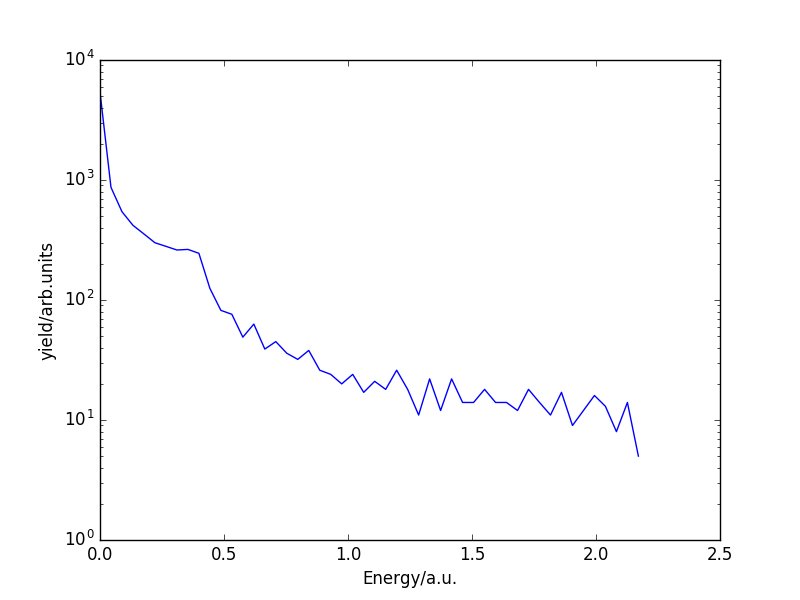
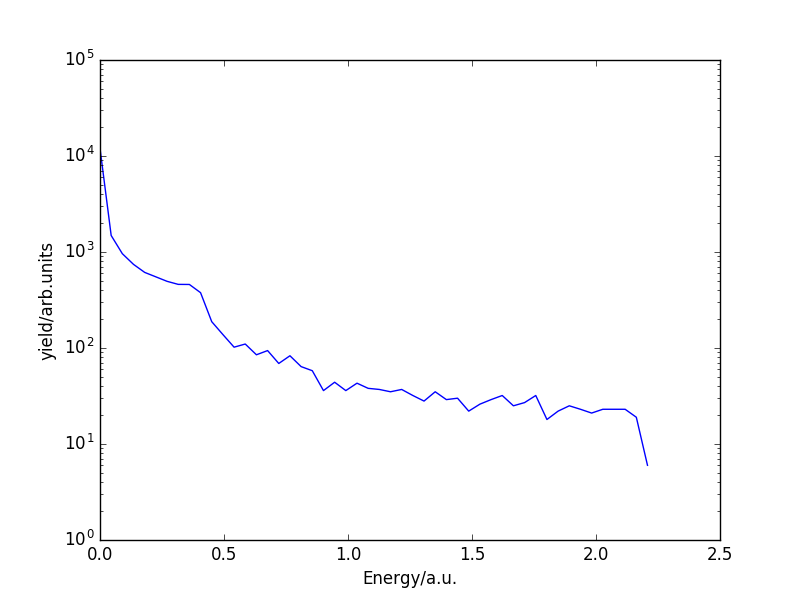
Updates on verlet algorithm
test if offset can give the right results

diff --git a/w2w_verlet.py b/w2w_verlet.py
@@ -8,6 +8,7 @@ from joblib import Parallel, delayed
 import multiprocessing
 from numba import jit
 
+np.random.seed(seed=10051990)
 
 class _Pulse(object):
     """Class for generation of pulses"""
@@ -38,7 +39,6 @@ class _Pulse(object):
                     wavelength: wavelength of pulse in nm
                     intensity: intensity in W/cm^2
                     CEP:    CEP in pi
-                    b: temporal offset in fs
             output: array of electric field shape of the pulse
                   """
         # calculate the proper output parameters from the input parameters
@@ -156,7 +156,7 @@ class _Ionization(object):
         pbins = np.linspace(-pmax,pmax,npbins+1)
         return pbins
 
-    def final_distribution_intensity_atoms(Imax,nI,pbins,npbins, phi,timesteps, laser_parameters):
+    def final_distribution_intensity_atoms(Imax,nI,pbins,npbins, phi,timesteps, laser_parameters, ADK_params):
         '''Calculate the momentum distribution
         input: Imax
                nI
@@ -165,6 +165,7 @@ class _Ionization(object):
                phi
                timesteps
                laser_parameters
+               ADK_params
         output: dist_i_3: momentum distribution [50]'''
         # initializing of all the arrays
         dist_i_3 = np.zeros([nI,npbins]) # momentum distributions
@@ -177,20 +178,21 @@ class _Ionization(object):
 
 
         # loop over different positions perpendicular to focus
-        x = np.linspace(0.001,150,nI) # 10 steps between 0 and 50um in the focus
+        x = np.linspace(0.001,50,nI) # 10 steps between 0 and 50um in the focus
         for i in range(nI):
             # print('{0} of {1} and phi={2:.3f} of max 2 at ratio {3}'.format(i+1,nI,phi, ratio))
             # create the Intensity of the laser at that position
             Ir_x = _Avg.gaussian(x[i],laser_parameters['Imax_red'],laser_parameters['FWHM_red(um)']) # offset by 15um
-            Iuv_x = _Avg.gaussian(x[i]+0,laser_parameters['Imax_uv'],laser_parameters['FWHM_uv(um)'])
+            Ib_x = _Avg.gaussian(x[i],laser_parameters['Imax_blue'],laser_parameters['FWHM_blue(um)'])
             # create the pulse
-            Er = _Pulse.pulse_au(t, laser_parameters['t_red(fs)'], 800, Ir_x, 0, -50, 0)
-            Euv = _Pulse.pulse_au(t, laser_parameters['t_uv(fs)'], 266, Iuv_x, phi, 50, 0)
-            Ecombined_i = Er + Euv
+            Er = _Pulse.pulse_au(t, laser_parameters['t_red(fs)'], 800, Ir_x, 0, 0, 0)
+            Eb = _Pulse.pulse_au(t, laser_parameters['t_blue(fs)'], 400, Ib_x, phi, 0, 0)
+            Ecombined_i = Er + Eb
             intensities.append(np.max(.5*Ecombined_i**2)*3.51E16) # in W/cm^2
 
             # calculate the ionization rate
-            rate = _Ionization.ADK(2.19, 0.579, 1., Ecombined_i, 1, 9.)*dt # constants for the ionization of Argon
+            rate = _Ionization.ADK(ADK_params['Cl'], ADK_params['I_p'], ADK_params['Z_c'], Ecombined_i,
+                                    ADK_params['l'], ADK_params['alpha'])*dt # constants for the ionization of Argon
             R[i,:] = rate
 
             # calculate the number of atoms remaining based on the rate
@@ -236,17 +238,15 @@ class _Avg(object):
         for i in range(nI):
             x_i = np.argmax(gauss >= I_disc[i]) # get the x value where the intensity is at I_i
             x_I[i] = x[x_i]
-        if nI > 1:
-            x_I[-1] = 0 # Volume of max intensity is zero
+        x_I[-1] = 0 # Volume of max intensity is zero
         # calculate the gradient as a weight for the focus averaging
-            dVdI = np.gradient(x_I**2)
+        dVdI = np.gradient(x_I**2)
 
-            S_avg = 0.
-            for i in range(nI):
-                S_i = np.abs(dVdI[i])*distribution[-i-1]*dI
-                S_avg += S_i
-        else:
-            S_avg = distribution
+        S_avg = 0.
+        for i in range(nI):
+            S_i = np.abs(dVdI[i])*distribution[-i-1]*dI
+            S_avg += S_i
+
         return S_avg
 
 class _Asymmetry(object):
@@ -302,7 +302,7 @@ class _Run(object):
         phases = np.linspace(0,parameters['phimax'],parameters['phisteps'],endpoint=False)
         return ADK_params, t, dt, pbins, phases
 
-    def calculation(phi,nI,pbins,npbins,timesteps, laser_parameters):
+    def calculation(phi,nI,pbins,npbins,timesteps, laser_parameters, ADK_params):
         """This is the calculation loop which runs in parallel on all cores
             input:  phi:    current phase
                     nI:     number of intensities for focus average
@@ -311,13 +311,13 @@ class _Run(object):
                     timesteps: sampling times
             output: results of the calculation"""
         print(phi)
-        output = _Ionization.final_distribution_intensity_atoms(1,nI,pbins, npbins, phi,timesteps, laser_parameters)
+        output = _Ionization.final_distribution_intensity_atoms(1,nI,pbins, npbins, phi,timesteps, laser_parameters, ADK_params)
         S_avg = _Avg.focus_avg(output[0])
         p_avg = _Avg.focus_avg(output[6]) # not working properly yet
         output = output + (S_avg,p_avg,) # append focus averaged spectrum to the outputs
         return output
 
-    def main(phisteps, npbins, timesteps, nI, pbins, laser_parameters):
+    def main(phisteps, npbins, timesteps, nI, pbins, laser_parameters, ADK_params):
         """The main part of the program
             input:  phisteps:   phases to calculate at
                     npbins:     number of momentum bins
@@ -329,7 +329,7 @@ class _Run(object):
                     asymmetry:  The fitted asymmetry"""
         averaged_dist = np.zeros((phisteps,npbins))
         E_fields = np.zeros((phisteps,timesteps))
-        inputs = (nI,pbins,npbins,timesteps, laser_parameters)
+        inputs = (nI,pbins,npbins,timesteps, laser_parameters, ADK_params)
 
         num_cores = multiprocessing.cpu_count() # number of cores available
         # return a list of the outputs for different phases
@@ -389,22 +389,22 @@ if __name__ == '__main__':
     m = 1 # mass in au
     rescatter_prob = 0
 
-    simulation_parameters = {'savename': 'Results/w3w/verlet_100fs_offset.h5',
+    simulation_parameters = {'savename': 'Results/w2w/verlet_test_3.h5',
                             'Atom': 'Neon',
-                            'timesteps': 30000,
-                            'min/maxtime': 6150,
+                            'timesteps': 10000,
+                            'min/maxtime': 2050,
                             'npbins': 50,
                             'pmax': 3,
                             'phisteps': 50,
                             'phimax': 2,
                             'nI': 10}
 
-    laser_parameters = {'Imax_red': 1.17E14,
+    laser_parameters = {'Imax_red': 6.17E13,
                         't_red(fs)': 35,
                         'FWHM_red(um)': 40,
-                        'Imax_uv': 1.85E13,
-                        't_uv(fs)': 40,
-                        'FWHM_uv(um)': 35}
+                        'Imax_blue': 4.7E13,
+                        't_blue(fs)': 52,
+                        'FWHM_blue(um)': 35}
 
     ADK_params, t, dt, pbins, phases = _Run.init_params(simulation_parameters)
     _Save.save_inits_hdf5(  simulation_parameters['savename'],
@@ -420,7 +420,8 @@ if __name__ == '__main__':
                                     simulation_parameters['timesteps'],
                                     simulation_parameters['nI'],
                                     pbins,
-                                    laser_parameters)
+                                    laser_parameters,
+                                    ADK_params)
     _Save.save_results_hdf5(simulation_parameters['savename'],
                             outputs,
                             phases)

diff --git a/verlet_ADK_test.py b/verlet_ADK_test.py
@@ -79,6 +79,12 @@ class _Pulse(object):
         Ib = (20E-6)/(tau*np.pi*(rb*10**-6)**2)/10000
         return Ir,Ib
 
+class _Avg(object):
+    """docstring for _Avg"""
+
+    def gaussian(x,I,sigma):
+        return I*np.exp(-x**2/sigma**2)
+
 def ADK(Cl, I_p, Z_c, F, l, alpha):
     """ ADK rate for ionization adapted from eq (2) of Tong et Lin, 2005, Journal of Physics B, 38, 15, 2593-2600
         with the normalization factor for noble gases as explained in Zhao et Brabec, 2006, arXiv:physics/0605049v1
@@ -104,6 +110,16 @@ def ADK(Cl, I_p, Z_c, F, l, alpha):
         w_ADK += first_term*second_term*third_term*fourth_term*fifth_term*sixth_term
     w_ADK = w_ADK/(2*l+1)
     return w_ADK
+
+def number_of_atoms(timesteps,rate):
+    N0p = np.ones(timesteps) # number neutral atoms
+    # calculate the number of atoms remaining based on the rate
+    for j in range(timesteps-1):
+        if N0p[j] < 1e-5: # check if occupation is already zero (does some crazy shit otherwise)
+            N0p[j+1] = 0 # keep it zero
+        else:  # otherwise, do something
+            N0p[j+1] = N0p[j] - N0p[j]*rate[j]# *dt # change population of neutral atoms
+    return N0p
 
 @jit # numba speeds it up immensly. Total lifesaver!
 def p_verlet(E,t0,t1,dt,rescatter_prob):
@@ -150,58 +166,82 @@ def p_SMM(E,t0,t1):
     p_t = e*integrate.trapz(E[t0:t1],t[t0:t1])
     return p_t
 
-m = 1
-e = -1
-timesteps = 10000
-rescatter_prob = 1
-t, dt = np.linspace(-2050,2050,timesteps,retstep=True) # time in fs 2050au = 50fs
+def plot_(axes, phi,t,Ecombined_i,rate_0pi,p_final_0pi,N0p):
+    '''just a funtion to plot it'''
+    axes.plot(t,Ecombined_i,'b',lw=2)
+    axes.fill(t,rate_0pi/np.max(rate_0pi)*0.05*np.sign(p_final_0pi),'k',alpha=.2)
+    axes.set_title(r'{0}$\pi$'.format(phi), y=1.05)
+    axes.set_xlabel('time/a.u.')
+    axes.set_ylabel('electric field/a.u.(blue)')
+    axes.set_xlim(-110,110)
+    ax2 = plt.twinx(axes)
+    # ax2.plot(t,p_final_SMM,'g')
+    ax2.plot(t,p_final_0pi,'r')
+    ax2.set_xlim(-110,110)
+    ax2.set_ylabel('final momentum/a.u.(red)')
+    ax3 = plt.twiny(ax2)
+    plt.hist(p_final_0pi, bins=50, weights=rate_0pi*N0p, color='r', alpha=.5, label='0pi',
+                            orientation='horizontal', fill=True, histtype='bar') #
+    ax3.invert_xaxis()
+    ax3.set_xlim(0.01,0)
 
-# create the pulse
-Er = _Pulse.pulse_au(t, 35, 800, 1.17E14, 0, 0, 0)
-Euv = _Pulse.pulse_au(t, 40, 266, 1.85E13, 1.8, 0, 0)
-Ecombined_i = Er + Euv
-rate_0pi = ADK(2.44, 0.579, 1., Ecombined_i, 1, 9.)*dt #Argon
+def simulate_(phi,t,Ir,Iuv,x_uv):
+    '''just a function to simulate it'''
+    # create the pulse
+    Ir_x = _Avg.gaussian(0,Ir,40)
+    Iuv_x = _Avg.gaussian(x_uv,Iuv,35)
+    Er = _Pulse.pulse_au(t, 35, 800, Ir_x, 0, 0, 0)
+    Euv = _Pulse.pulse_au(t, 40, 266, Iuv_x, phi, 0, 0)
+    Ecombined_i = Er + Euv
+    rate_0pi = ADK(2.44, 0.579, 1., Ecombined_i, 1, 9.)*dt #Argon
+    N0p = number_of_atoms(timesteps,rate_0pi)
 
-p_final_0pi = np.zeros((timesteps))
-# for phi in range(phisteps):
-for i in range(timesteps):
-    print(i)
-    p_final_0pi[i] = p_verlet(Ecombined_i,i,timesteps-1,dt,rescatter_prob)
-    # p_final_0pi[i] = p_SMM(Ecombined_i,i,timesteps-1)
+    p_final_0pi = np.zeros((timesteps))
+    for i in range(timesteps):
+        if i % 100 == 0:
+            print(i)
+        p_final_0pi[i] = p_verlet(Ecombined_i,i,timesteps-1,dt,rescatter_prob)
+        # p_final_0pi[i] = p_SMM(Ecombined_i,i,timesteps-1)
+    return Ecombined_i, rate_0pi, p_final_0pi, N0p
+
+m = 1836*20
+e = +1
+timesteps = 20000
+rescatter_prob = 0
+t, dt = np.linspace(-4100,4100,timesteps,retstep=True) # time in fs 2050au = 50fs
+phases = np.linspace(0,2,6,endpoint=False)
 
 # p_t, x_ = p_verlet(Ecombined_i,500,timesteps,dt)
 # plt.plot(t,x_)
 
-# 1 Up = 0.218 a.u. (800nm, 1E14W/cm2)
-E_final_0pi = p_final_0pi*p_final_0pi/2
+Ecombined_i, rate_0pi, p_final_0pi, N0p = simulate_(1,t,Ir=1.17E14, Iuv=1.85E13, x_uv=0)
+Ecombined_i, rate_50pi, p_final_50pi, N50p = simulate_(1,t,Ir=1.17E14, Iuv=1.85E13, x_uv=50)
+
+plt.figure()
+plt.plot(t,Ecombined_i)
 
 # # 1 Up = 0.218 a.u. (800nm, 1E14W/cm2)
 # E_final = p_final_0pi*p_final_0pi/2
-# # plt.plot(t, E_final, '+')
+# plt.figure()
 # hist = np.histogram(E_final, bins=50)
 # plt.semilogy(hist[1][:-1], hist[0])
 # plt.xlabel('Energy/a.u.')
 # plt.ylabel('yield/arb.units')
 
-ax1 = plt.axes()
-ax1.plot(t,Ecombined_i,'b',lw=2)
-plt.xlabel('time/a.u.')
-plt.ylabel('electric field/a.u.(blue)')
-ax1.set_xlim(-110,110)
-ax2 = plt.twinx(ax1)
-# ax2.plot(t,p_final_SMM,'g')
-ax2.plot(t,p_final_0pi,'r')
-ax2.set_xlim(-110,110)
-plt.ylabel('final momentum/a.u.(red)')
-ax3 = plt.twiny(ax2)
-plt.hist(p_final_0pi, bins=50, weights=rate_0pi, color='r', alpha=.5, label='0pi',
-                        orientation='horizontal', fill=True, histtype='bar') #
-ax3.invert_xaxis()
-ax3.set_xlim(0.02,0)
-
 # histogram of the two distributions
-# plt.figure()
-# plt.hist(p_final_0pi, bins=50, weights=rate_0pi, alpha=.5, label='0pi', orientation='horizontal', fill=False, histtype='step') #
+plt.figure()
+plt.hist(p_final_0pi, bins=50, weights=rate_0pi*N0p, alpha=.5, label='0pi', orientation='horizontal', fill=False, histtype='step') #
+plt.hist(p_final_50pi, bins=50, weights=rate_50pi*N50p, alpha=.5, label='0pi', orientation='horizontal', fill=False, histtype='step') #
 # plt.legend()
+
+# plot multiple axes in one figure
+# fig, axs = plt.subplots(2,3)
+# fig.subplots_adjust(hspace = .5, wspace=.5)
+# axs = axs.ravel()
+#
+# for i in range(6):
+#     print(phases[i])
+#     Ecombined_i, rate_0pi, p_final_0pi, N0p = simulate_(phases[i],t)
+#     plot_(axs[i],phases[i],t,Ecombined_i,rate_0pi,p_final_0pi,N0p)
 
 plt.show()
